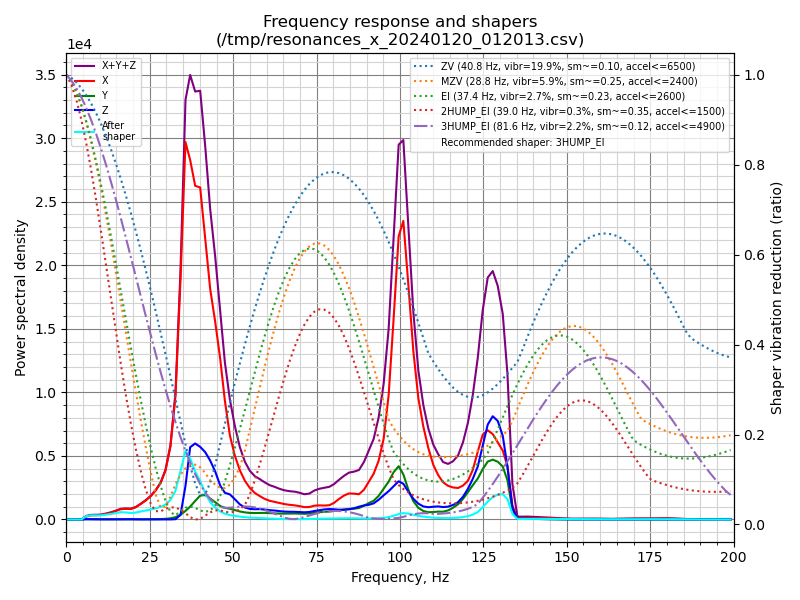
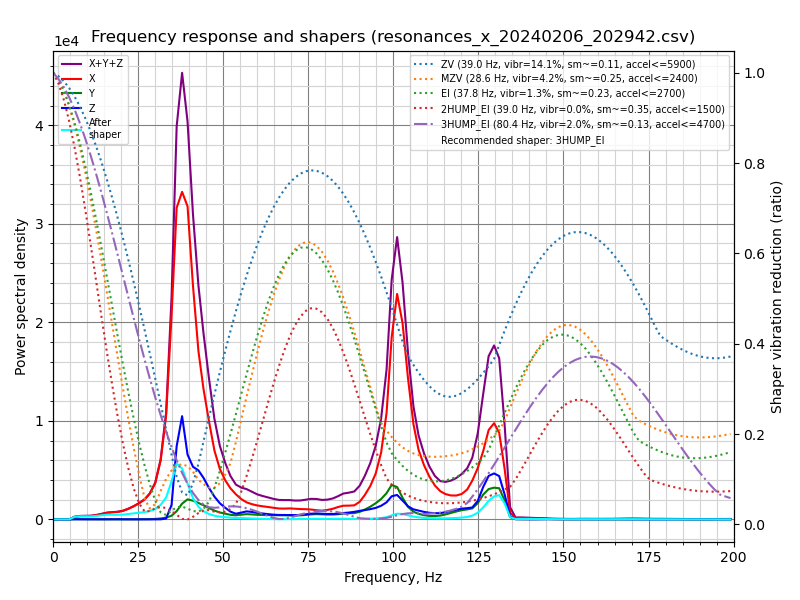
docs(hardware): update with latest changes

Changed region(s): [[0.0, 0.03, 1.0, 0.99], [0.9688, 0.63, 1.0, 0.69], [0.9375, 0.12, 0.9688, 0.15]]

diff --git a/hardware/resonances/README.md b/hardware/resonances/README.md
@@ -9,17 +9,17 @@ Measured using ADXL345 over SPI on a Pico running as separate MCU.
 ![shaper_calibrate_x](./shaper_calibrate_x.png)
 
 ```
-Fitted shaper 'zv' frequency = 40.8 Hz (vibrations = 19.9%, smoothing ~= 0.097)
-To avoid too much smoothing with 'zv', suggested max_accel <= 6500 mm/sec^2
-Fitted shaper 'mzv' frequency = 28.8 Hz (vibrations = 5.9%, smoothing ~= 0.246)
+Fitted shaper 'zv' frequency = 39.0 Hz (vibrations = 14.1%, smoothing ~= 0.105)
+To avoid too much smoothing with 'zv', suggested max_accel <= 5900 mm/sec^2
+Fitted shaper 'mzv' frequency = 28.6 Hz (vibrations = 4.2%, smoothing ~= 0.249)
 To avoid too much smoothing with 'mzv', suggested max_accel <= 2400 mm/sec^2
-Fitted shaper 'ei' frequency = 37.4 Hz (vibrations = 2.7%, smoothing ~= 0.230)
-To avoid too much smoothing with 'ei', suggested max_accel <= 2600 mm/sec^2
-Fitted shaper '2hump_ei' frequency = 39.0 Hz (vibrations = 0.3%, smoothing ~= 0.355)
+Fitted shaper 'ei' frequency = 37.8 Hz (vibrations = 1.3%, smoothing ~= 0.225)
+To avoid too much smoothing with 'ei', suggested max_accel <= 2700 mm/sec^2
+Fitted shaper '2hump_ei' frequency = 39.0 Hz (vibrations = 0.0%, smoothing ~= 0.355)
 To avoid too much smoothing with '2hump_ei', suggested max_accel <= 1500 mm/sec^2
-Fitted shaper '3hump_ei' frequency = 81.6 Hz (vibrations = 2.2%, smoothing ~= 0.123)
-To avoid too much smoothing with '3hump_ei', suggested max_accel <= 4900 mm/sec^2
-Recommended shaper is 3hump_ei @ 81.6 Hz
+Fitted shaper '3hump_ei' frequency = 80.4 Hz (vibrations = 2.0%, smoothing ~= 0.127)
+To avoid too much smoothing with '3hump_ei', suggested max_accel <= 4700 mm/sec^2
+Recommended shaper is 3hump_ei @ 80.4 Hz
 ```
 
 ## Y-Axis
@@ -27,15 +27,15 @@ Recommended shaper is 3hump_ei @ 81.6 Hz
 ![shaper_calibrate_y](./shaper_calibrate_y.png)
 
 ```
-Fitted shaper 'zv' frequency = 41.0 Hz (vibrations = 4.8%, smoothing ~= 0.096)
-To avoid too much smoothing with 'zv', suggested max_accel <= 6600 mm/sec^2
-Fitted shaper 'mzv' frequency = 40.0 Hz (vibrations = 0.3%, smoothing ~= 0.127)
-To avoid too much smoothing with 'mzv', suggested max_accel <= 4700 mm/sec^2
-Fitted shaper 'ei' frequency = 47.2 Hz (vibrations = 0.0%, smoothing ~= 0.145)
-To avoid too much smoothing with 'ei', suggested max_accel <= 4100 mm/sec^2
-Fitted shaper '2hump_ei' frequency = 59.4 Hz (vibrations = 0.0%, smoothing ~= 0.153)
-To avoid too much smoothing with '2hump_ei', suggested max_accel <= 3900 mm/sec^2
-Fitted shaper '3hump_ei' frequency = 72.2 Hz (vibrations = 0.0%, smoothing ~= 0.157)
-To avoid too much smoothing with '3hump_ei', suggested max_accel <= 3800 mm/sec^2
-Recommended shaper is mzv @ 40.0 Hz
+Fitted shaper 'zv' frequency = 40.6 Hz (vibrations = 3.2%, smoothing ~= 0.098)
+To avoid too much smoothing with 'zv', suggested max_accel <= 6400 mm/sec^2
+Fitted shaper 'mzv' frequency = 40.4 Hz (vibrations = 0.0%, smoothing ~= 0.125)
+To avoid too much smoothing with 'mzv', suggested max_accel <= 4800 mm/sec^2
+Fitted shaper 'ei' frequency = 48.6 Hz (vibrations = 0.0%, smoothing ~= 0.136)
+To avoid too much smoothing with 'ei', suggested max_accel <= 4400 mm/sec^2
+Fitted shaper '2hump_ei' frequency = 60.8 Hz (vibrations = 0.0%, smoothing ~= 0.146)
+To avoid too much smoothing with '2hump_ei', suggested max_accel <= 4100 mm/sec^2
+Fitted shaper '3hump_ei' frequency = 73.4 Hz (vibrations = 0.0%, smoothing ~= 0.152)
+To avoid too much smoothing with '3hump_ei', suggested max_accel <= 3900 mm/sec^2
+Recommended shaper is mzv @ 40.4 Hz
 ```

diff --git a/hardware/README.md b/hardware/README.md
@@ -58,21 +58,15 @@ A Cartesian (aka "bed slinger") FFF/FDM 3D printer.
     * RatRig Cast 90 Degree Corner brackets
     * DIY Extrusion end caps
     * DIY Carrying handle
-    * DIY Raised feet w/anti-vibration (35mm)
     * DIY Cable drag chains (30deg)
     * DIY Braces (Stiffeners) on Z axis (8mm rods)
 * **PSU**
     * Meanwell LRS-350-24 (24V, 350W)
-    * Noctua NF-A8 FLX cooling fan (12V)
-    * DIY ventilated cover and 80mm fan support
-    * DIY 24V -> 12V DC Buck Converter
-        * Custom fan terminal PCB and case
-        * Noctua fan silencer adapters
+    * Stock fan
 * **Mainboard**
     * BTT SKR E3 v3 Mainboard (TMC2209)
-    * Noctua NF-A8 FLX cooling fan (12V)
     * Heatsinks on SoC and power converters
-    * DIY ventilated cover and 80mm fan support
+    * Stock fan
 * **Bed**
     * Creality stock heated aluminum bed
     * Creativity Silicon solid mounts
@@ -128,10 +122,3 @@ A Cartesian (aka "bed slinger") FFF/FDM 3D printer.
       * E3D V6 Nozzle-X 0.4mm (V6)
       * Phaetus Hardened Steel 0.4mm (V6)
       * Phaetus Hardened Steel 0.6mm (Volcano)
-* **Display**
-    * Makerbase MKS MINI12864 v3 Display
-        * Custom cable to convert EXT1 on mainboard to EXT1+EXT2 on display [^1] [^2]
-        * DIY Case with angled 4040 extrusion mount
-
-[^1]: https://github.com/bigtreetech/BIGTREETECH-SKR-mini-E3/issues/728#issuecomment-1736805084
-[^2]: https://github.com/makerbase-mks/MKS-MINI12864-V3/blob/main/hardware/Image/MKS_MINI12864_V3_PINOUT.png
